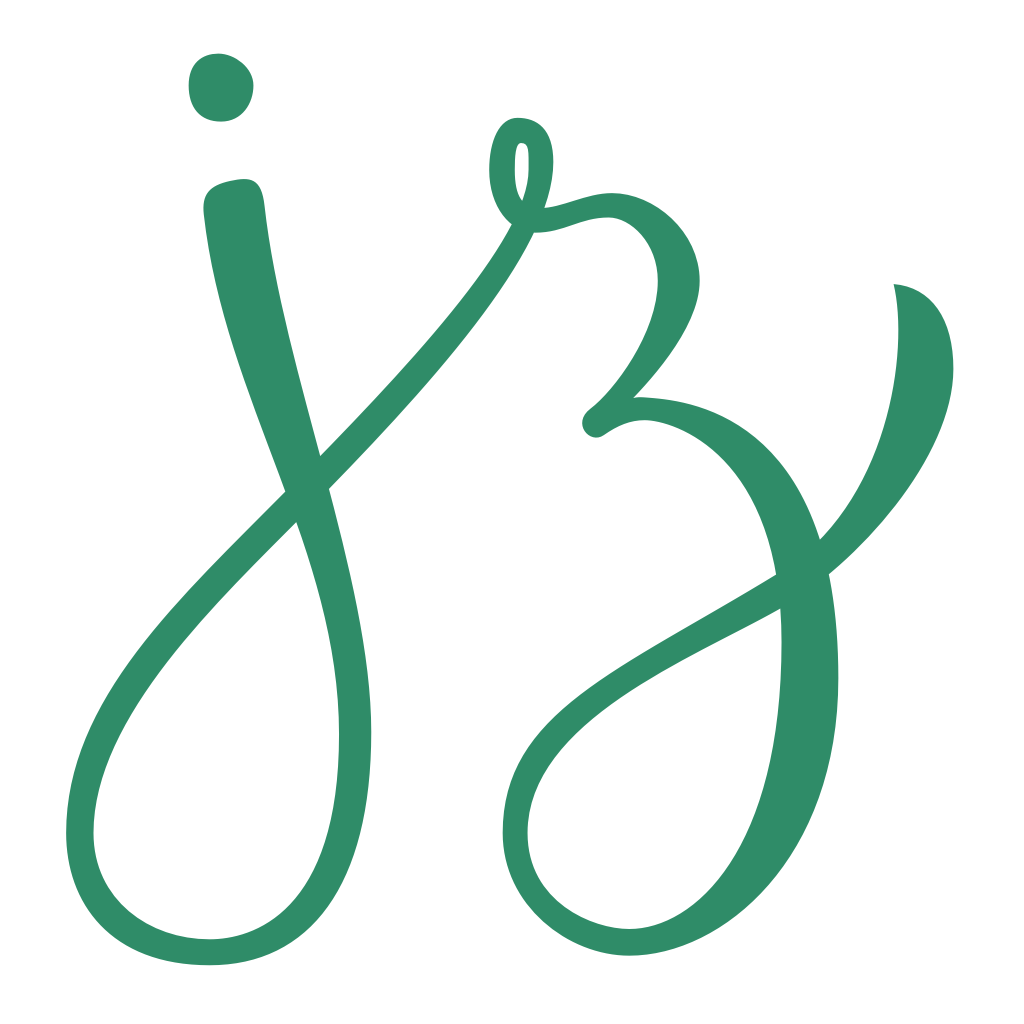
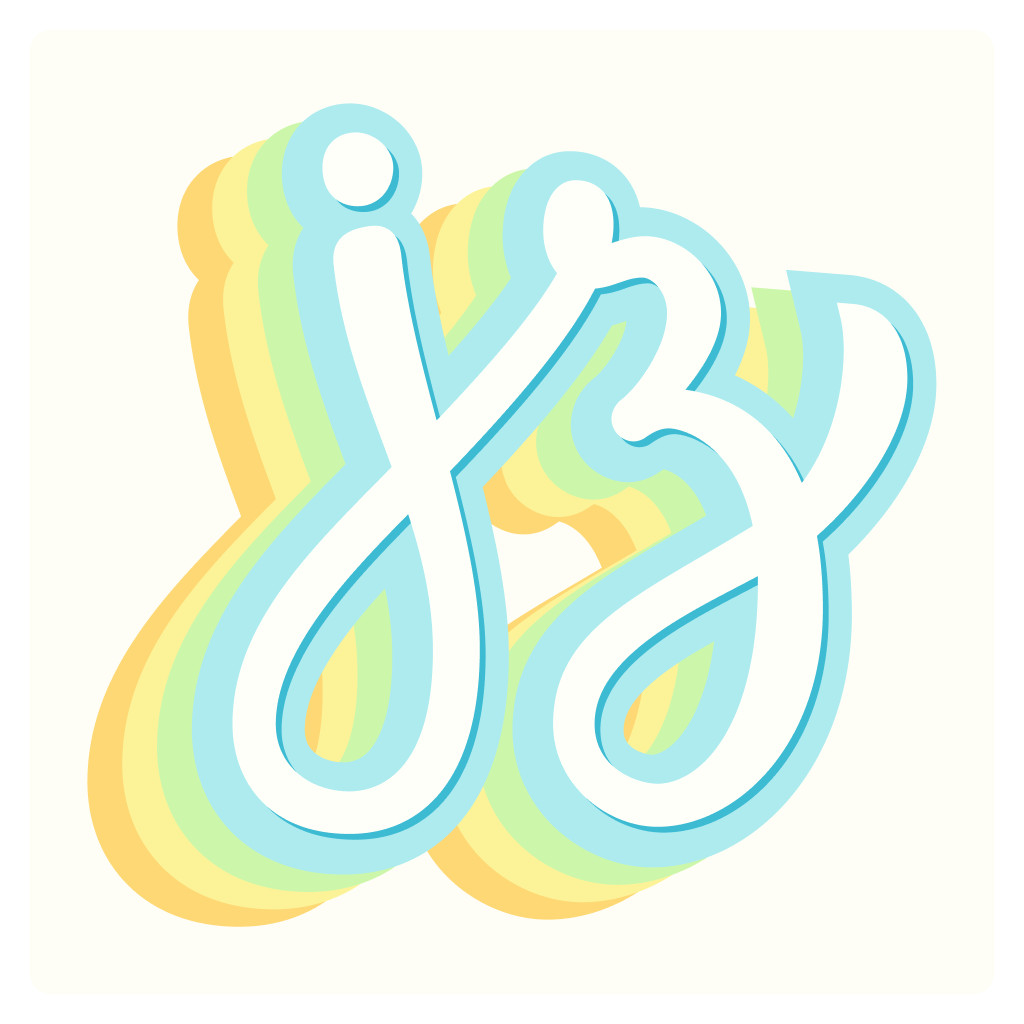
New monogram!

diff --git a/source/stylesheets/_base.scss b/source/stylesheets/_base.scss
@@ -208,10 +208,9 @@ img ~ em {
   padding-bottom: 3em;
 }
 
-
 .grid {
   display: grid;
-  grid-template-columns: 100px minmax(200px, 700px) 100px;
+  grid-template-columns: 140px minmax(200px, 700px) 140px;
   grid-column-gap: 3.5%;
   grid-template-rows: 75px auto;
   grid-template-areas:
@@ -220,8 +219,16 @@ img ~ em {
   justify-content: center;
   padding: 15px 25px;
 
+  @media #{$breakpoint-med} {
+    grid-template-columns: 120px auto;
+    grid-template-areas:
+      ". navigation"
+      "monogram content";
+  }
+
   @media #{$breakpoint-small} {
-    grid-template-columns: 75px auto;
+    grid-template-columns: 105px auto;
+    grid-template-rows: 105px auto;
     grid-template-areas:
       "monogram navigation"
       "content content";
@@ -250,6 +257,11 @@ img ~ em {
     }
   }
 
+  svg {
+    max-width: 100%;
+    height: 100%;
+  }
+
   .name {
     display: inline-block;
     text-indent: -999em;
@@ -257,15 +269,15 @@ img ~ em {
 } // .monogram
 
 .nav-main {
+  display: flex;
   grid-area: navigation;
   align-items: center;
-  justify-items: end;
+  justify-content: flex-end;
 
   ul {
     list-style: none;
     margin: 0;
     padding: 0;
-    text-align: right;
   }
 
   li {

diff --git a/source/stylesheets/_variables.scss b/source/stylesheets/_variables.scss
@@ -54,3 +54,4 @@ $content-left-gutter: $monogram-width + $monogram-right-gutter;
 
 // Mobile vars
 $breakpoint-small: "only screen and (max-width: 600px)";
+$breakpoint-med: "only screen and (max-width: 850px)";
